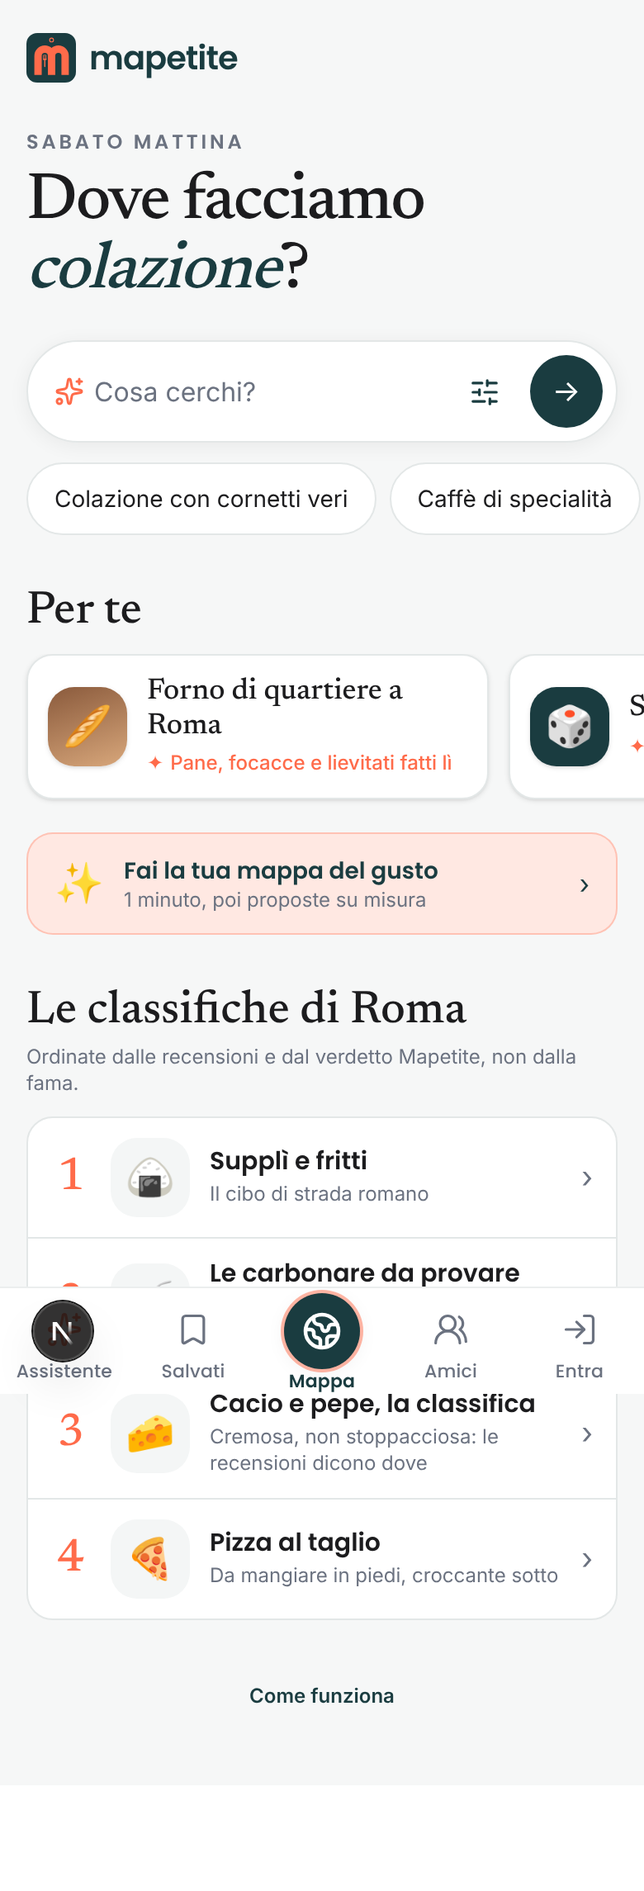
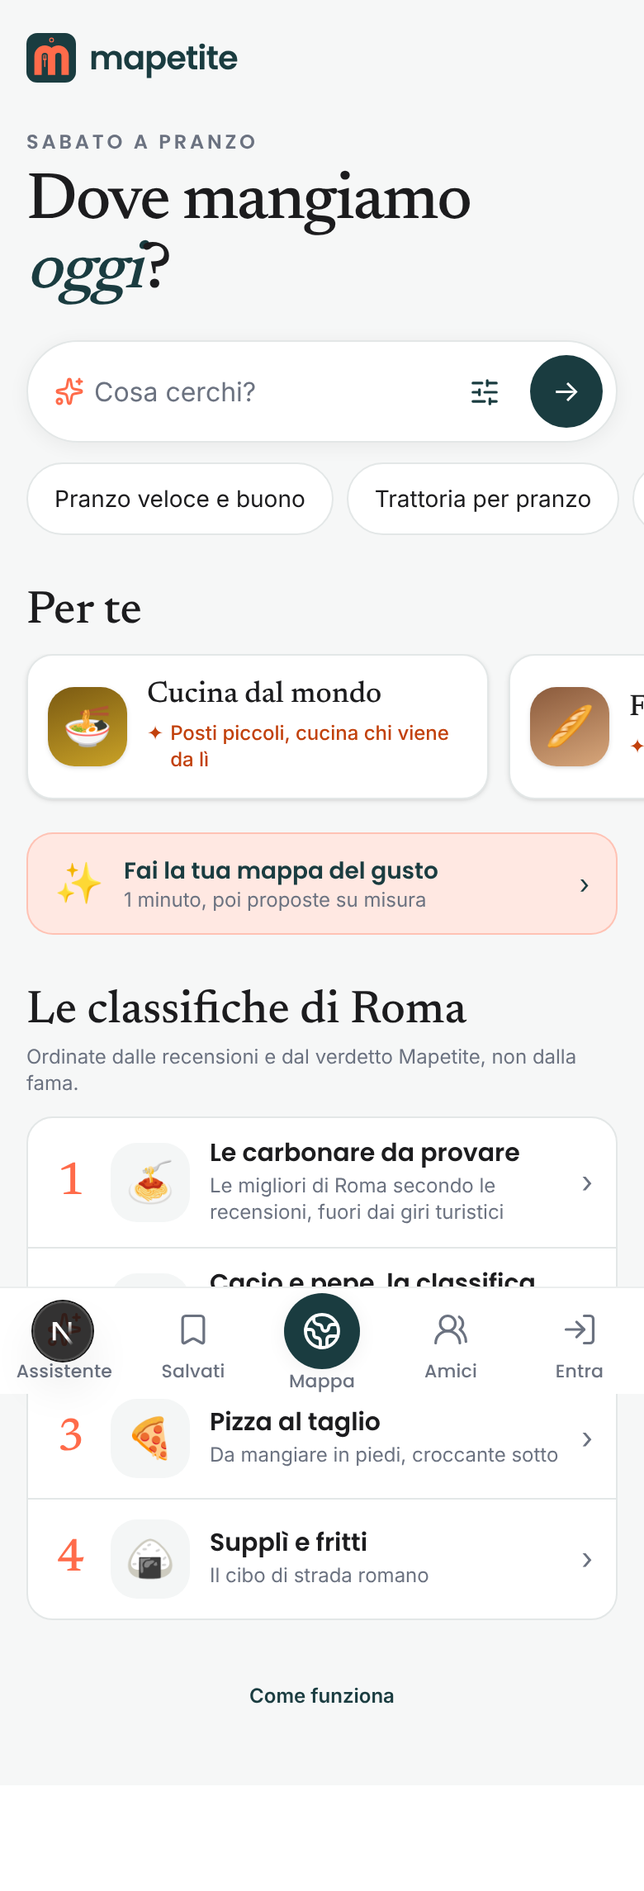
docs: BACKLOG della sessione del 7/11 alle 10:05 e screenshot dopo (home, primo accesso)
Claude-Session: https://claude.ai/code/session_01WaRiHrL3GZwTsBC8739bVF

diff --git a/docs/autonomia/BACKLOG.md b/docs/autonomia/BACKLOG.md
@@ -100,7 +100,8 @@ In pausa fino al 26/10: proposta 7 (ranking "Aperto da poco"), proposte 6, 9, 12
 - **Fatto venerdì 6/11 notte (sessione 03:05, branch `claude/busy-mendel-gf8o3h`, riparte da `claude/busy-mendel-fcysx4`, PR nuova che contiene la #129):** (1) **"Ti porterei qui"**: due revisori nuovi, 8,0 e 8,0 → per regola **spento per tutti** (`?beta=consiglio` lo accende su un telefono). Corretto: nome intero su una riga sua sotto "TI PORTEREI DA" (prima "Osteria dell'Acqu…"), stessa altezza (82 px) in attesa, dopo e anche quando il consiglio non arriva; ogni parola del perché deve stare nei dati del posto ("professionale" inventato per una cena di lavoro), refusi corretti dalla parola vera dei dati ("tramosto"), numeri della richiesta scartati ("70 anni"), perché che ripete il verdetto della card scartato; in questi casi una sola riscrittura (~0,45 centesimi in più), poi niente consiglio. (2) **Scheda del locale (area 6c)**: frasi delle recensioni in testo normale (il corsivo resta solo al verdetto), "Perché qui" senza il cerchio con la ✦, punti forti come pillole con bordo (come Places) senza l'etichetta, "Orari, contatti, recensioni ›" in fondo e ferma al tocco. Designer 7,2 → revisore 8,5. (3) **Salvati**: ordine "Da più tempo" (Da provare dal più vecchio, poi i visitati) al posto della riga "Aspettano da mesi": testata più leggera. (4) CEO: concorrenti (Beli, Corner, Mapstr), problema 21, proposte 48 e 49. **Ricerche Google vere oggi (dalle 9:00 del 5/11): 6** (3 della sera + casi 2, 11, 12 rifatti stanotte per il container nuovo).
 - **Fatto venerdì 6/11 sera (sessione 22:05, branch `claude/busy-mendel-wwtx30`, da `main` dopo la PR #130):** (1) **"Ti porterei qui"**: due revisori nuovi, 7,5 e 6,5 → resta **spento** (`?beta=consiglio`). Corretti tutti i loro difetti: il caso 2 non dava mai il consiglio (scartato perché il perché ripeteva il verdetto) → ora resta la scelta senza perché; "dicono le recensioni" tolto se le parole stanno solo nel verdetto AI (falso nel caso 2); doppione riquadro/card riconosciuto anche dalle prime 2 parole; forme diverse dello stesso verbo ("copre"/"coprire") non scartano più un perché vero; "nessuno" non resta in memoria; al primo arrivo sempre "Ti porterei da" + nome (prima con il consiglio sulla prima card il nome non si vedeva mai), "qui" solo dopo un tocco o uno scorrimento; perché più corto (90 caratteri). (2) **Scheda (6c)**: "‹ 1 di 12 ›" in alto al centro con la barra su una riga: due revisori 7,5 e 7 → **tolta dal merge**, scheda come in produzione. Il giusto, secondo il terzo revisore: scorrendo una testata bianca compatta fissa (X, nome piccolo, ‹ ›) come Google Maps/Places, foto all'apertura di almeno 160 px, emoji piccola a sinistra senza foto. (3) **Card dei risultati (6b)**: punti forti solo come pillole intere (prima "Pesce fres…"). (4) Giro: "Azzera" dei Salvati aspetta la lista (falliva col server lento). CEO: ricerca del giorno già fatta alle 03:05. **Ricerche Google vere oggi (dalle 9:00 del 6/11): 3** (casi 2, 11, 12 registrati in `scripts/fixtures` di questo container).
 - **Fatto sabato 7/11 notte (sessione 03:05, branch `claude/busy-mendel-7xugdb`, da `main` dopo la PR #131 con dentro la PR #132):** (1) **Scheda, testata compatta**: il controllo del giro che falliva era il test (a 480 px la scheda di prova non scorreva), non la scheda; revisore nuovo **8,5, APPROVATA**; corretti i suoi 3 punti: la testata compare appena i tasti sulla foto escono (prima a 375×667 c'era una zona senza X), puntini al posto di "1 / 2" sulla foto (sembrava un doppione di "‹ 1 di 12 ›"), frecce da 44 px. (2) **Primo accesso (6d)**: contatore sempre "N di 7" (prima da "2 di 8" a "3 di 7"), **unito**. Ritocchi dal designer (7,5) — chip che non si allargano, chip da 44 px, "Non lo conosco" come tasto, tolta la riga "trascina la card", nome del gusto in più nella frase — e (3) **Idee** (stesso giorno della home di notte, "Idee" a 44 px): **bocciati due volte (8,4 e 8,2) e tolti dal merge** (commit bb4a215); il lavoro resta nei commit 027e20d e dd8adef. (4) **Demo (7b)**: copione di 3 minuti riscritto al 7/11 in `DEMO.md`, da provare dal vivo. (5) CEO del sabato: concorrenti, problema 22 (trappole per turisti in centro), proposte 50–52 (dal 9/11), retro della settimana. **"Ti porterei qui"**: bocciata 4 volte; per la regola nuova della retro (alla terza bocciatura ci si ferma) resta spenta e la domanda va a Lorenzo. Ricerche Google vere: 0.
-- **Prossima sessione (dopo la notte del 7/11), in ordine:** (0) **riapplicare i ritocchi del primo accesso** (`git cherry-pick 027e20d dd8adef`) con le correzioni del secondo revisore (8,2): a 360 px "Non lo conosco" tocca 👎 e 👍 (1 px: tasti tondi più piccoli sotto 380 px o "Non so"); Idee e home con le stesse fasce ("mattina" fino alle 11, "a pranzo") e `percheMomento` con l'ora di Roma; frase "Ti piacciono trattoria, ristorante e pizza al taglio" sgrammaticata (meglio "Ti piacciono le trattorie…" o "Ti piace: …"); chip "Prova a chiedere" a 40 px; poi un revisore nuovo, merge se ≥ 8,5. (a) dall'audit del designer (home 6,5, mappa 6): sulla home il cocktail compare tre volte (chip, "Per te", classifica): togliere i doppioni; card "Per te" della home solo emoji (sembrano segnaposti): foto del primo locale o card più bassa; "Azzera" nei Filtri quasi invisibile; testo del campo di ricerca diverso tra home ("Cosa cerchi?") e mappa ("Chiedi all'AI…" tagliato); nessuna linguetta attiva nella barra in basso sulla home. (b) Primo accesso: "Cosa ti piace?" con 54 chip in una pagina lunga (aprire solo 2 gruppi, il resto dietro "Altro"; nascondere "Cucina milanese" a chi ha scelto Roma); ogni passo scorre di 64 px a vuoto. (c) Domenica 8/11: copione demo provato dal vivo in produzione (7b) e pagina prima/dopo (7c). (d) Scheda, minori del revisore: chip dei punti forti con il bordo tagliato in seconda riga; senza foto l'emoji è vicina alla X.
+- **Prossima sessione (dopo la sessione delle 10:05 del 7/11), in ordine:** riparti dal branch `claude/busy-mendel-e78fe2`. (0) **Revisore nuovo sul primo accesso** (correzioni fatte: diete solo in "Come mangi?", un gruppo aperto in "Cosa ti piace?", niente scorrimento a vuoto, fasce orarie e ora di Roma uguali tra home e Idee); minori aperti: vuoto di ~300 px in "Ecco cosa ho capito", "Non lo conosco" → "Mai provato", Thai e Coreano con la stessa emoji, chip "Prova a chiedere" che ripetono l'idea del momento o sono fuori fascia ("Colazione buona" a pranzo). (1) **Revisore nuovo sulla home** (correzioni fatte: classifiche solo dell'ora giusta e nascoste se meno di 2, "Per te" solo con tipi adatti all'ora, perché su due righe in corallo scuro 5,2:1, "Azzera" leggibile, campo "Cosa cerchi?" uguale alla mappa); minori aperti: "Pizzeria napoletana con la fila" come titolo in "Per te" (suona mainstream), ricerca recente ripetuta come pillola ↻ e come card, "Azzera" spento senza bordo. Se entrambi ≥ 8,5: build con il server fermo, merge, controllo del deploy. (2) Poi le voci (b)–(d) qui sotto ancora aperte e domenica 8/11 il copione demo dal vivo (7b) e la pagina prima/dopo (7c).
+- **Prossima sessione (dopo la notte del 7/11, in parte fatta il 7/11 alle 10:05):** (0) **riapplicare i ritocchi del primo accesso** (`git cherry-pick 027e20d dd8adef`) con le correzioni del secondo revisore (8,2): a 360 px "Non lo conosco" tocca 👎 e 👍 (1 px: tasti tondi più piccoli sotto 380 px o "Non so"); Idee e home con le stesse fasce ("mattina" fino alle 11, "a pranzo") e `percheMomento` con l'ora di Roma; frase "Ti piacciono trattoria, ristorante e pizza al taglio" sgrammaticata (meglio "Ti piacciono le trattorie…" o "Ti piace: …"); chip "Prova a chiedere" a 40 px; poi un revisore nuovo, merge se ≥ 8,5. (a) dall'audit del designer (home 6,5, mappa 6): sulla home il cocktail compare tre volte (chip, "Per te", classifica): togliere i doppioni; card "Per te" della home solo emoji (sembrano segnaposti): foto del primo locale o card più bassa; "Azzera" nei Filtri quasi invisibile; testo del campo di ricerca diverso tra home ("Cosa cerchi?") e mappa ("Chiedi all'AI…" tagliato); nessuna linguetta attiva nella barra in basso sulla home. (b) Primo accesso: "Cosa ti piace?" con 54 chip in una pagina lunga (aprire solo 2 gruppi, il resto dietro "Altro"; nascondere "Cucina milanese" a chi ha scelto Roma); ogni passo scorre di 64 px a vuoto. (c) Domenica 8/11: copione demo provato dal vivo in produzione (7b) e pagina prima/dopo (7c). (d) Scheda, minori del revisore: chip dei punti forti con il bordo tagliato in seconda riga; senza foto l'emoji è vicina alla X.
 - Sessione prima: **Prossima sessione (dopo la sera del 6/11), in ordine:** (a) **Scheda, testata compatta: GIÀ FATTA sul branch `claude/busy-mendel-wwtx30`** (commit dopo la PR #131, non unita): scorrendo compare in alto una barra bianca fissa con X, nome e "‹ 1 di 12 ›"; "‹ ›" in alto al centro sulla foto; barra azioni su una riga; foto mai sotto 160 px; senza foto emoji a sinistra sotto i tasti. Serve **un revisore nuovo** (dati salvati dei casi 2, 11, 12; con foto finte e senza foto; 390×844, 360×740, 375×667): se ≥ 8,5 e giro TUTTO OK, merge. Da guardare: nome lungo tagliato nella testata compatta a 360. **Giro: 2.213 controlli OK e 1 fallito**, il controllo nuovo "scorrendo compare la testata compatta" (opacità resta 0 nel caso q3 del giro con dati finti, mentre dal vivo con i dati salvati compare: `screenshots/2026-11-06-sera/scheda-testata-compatta.png`): capire perché nel caso q3 (forse la scheda non scorre abbastanza o la foto non c'è) prima del merge. Anche "Chiuso ora" come testo con pallino (revisore card) è su questo branch. (b) **"Ti porterei qui"**: revisore nuovo (fixture dei casi 2, 11, 12 da rifare se il container è nuovo: 3 ricerche vere); da guardare il tempo (consiglio 6–7 s dopo la lista). (c) Area 6a home e 6d primo accesso; (d) area 7 Demo: copione di 3 minuti aggiornato con le funzioni nuove e provato dal vivo (domenica 8/11).
 - Sessione prima: **Prossima sessione (dopo la notte del 6/11), in ordine:** (a) **un revisore nuovo su "Ti porterei qui"** con `?beta=consiglio` (risposte dei casi 2, 11, 12 in `scripts/fixtures` di questo container; se è nuovo, 3 ricerche vere). Se ≥ 8,5, accenderlo in `DEFAULT_ON` di `src/lib/beta.ts`. Da guardare: con i controlli stretti il consiglio arriva meno spesso (stanotte 1–2 frasi su 3); "Festeggia compleanni…" suona come un ordine (prompt). (b) Area 6 Grafica: barra azioni della scheda su una riga sola ("‹ 1 di 12 ›" nell'intestazione, quinto punto del designer, non fatto), emoji più grande senza foto; poi 6b risultati e 6a home. (c) Area 7 Demo: copione di 3 minuti provato dal vivo.
 - Sessione prima: **Prossima sessione (dopo la sera del 5/11), in ordine:** (a) **un revisore nuovo su "Ti porterei qui"** (branch `claude/busy-mendel-fcysx4`, PR #129 in bozza; bocciata 7,5 e 8,0, tutto corretto: nome doppio, riquadro che cresceva, perché tagliato, frase presa dalla richiesta, nota del budget, consiglio instabile). Server con `GOOGLE_FIXTURES_ONLY=1`: le risposte dei casi 2, 11 e 12 sono in `scripts/fixtures` di QUESTO container (se il container è nuovo vanno rifatte: 3 ricerche vere). Se ≥ 8,5 e giro TUTTO OK, merge. Difetti noti lasciati: con il consiglio sulla prima card il tocco non fa niente (dice già "1 di N"); la ✦ è anche il simbolo del verdetto. (b) Area 6 Grafica (calendario: venerdì 6/11): risultati, scheda, home, come scritto sotto. (c) Testata dei Salvati più leggera: provata il 5/11 sera ("Aspettano da mesi" come pillola nella fila), **bocciata due volte (8,0 e 7,5) e tolta dal branch**. Motivi: testo tagliato a 390 px, sembra un doppione di "Da provare", la fila dei tipi scivola sotto il dito quando la pillola sparisce, il conteggio conta anche i posti senza stato. Idea del secondo revisore da provare: "Da più tempo" come ordinamento (accanto a Vicino / Recenti / Preferiti), come fanno Places, Mapstr e Google Maps, e togliere la riga.
@@ -124,7 +125,7 @@ In pausa fino al 26/10: proposta 7 (ranking "Aperto da poco"), proposte 6, 9, 12
 - Sessione prima: **Prossima sessione (dal 30/10 sera), in ordine:** (a) se Lorenzo ha detto "aggiungi tu le chiavi degli avvisi": generarle e metterle su Vercel, poi un avviso vero; (b) "Chiedi ai tuoi posti" anche dalla home/assistente quando la domanda somiglia ai salvati (oggi solo nella pagina dei salvati) e prova dal vivo in produzione con un account con salvati veri; (c) proposta 3, passo 2: prenotazioni sul server con consenso e informativa; (d) proposta 30 (serve un file vero di esportazione Instagram); (e) "Altri come questo" (27); (f) "Prenota su TheFork" spento: prova dal vivo sull'anteprima Vercel con 3–4 siti veri.
 - Sessione prima: **Prossima sessione (dal 30/10), in ordine:** (a) se Lorenzo ha detto "aggiungi tu le chiavi degli avvisi": generarle e metterle su Vercel (Production e Preview), poi provare un avviso vero; (b) minori del collaudo del 30/10: al primo "Ci sono stato" la prova si salva al tocco anche se poi si sceglie "Ieri" (aspettare il foglio, come per "tornato"); la scheda chiama `/api/ristoratore/serate` due volte (posto-locale e omaggio: unire); (c) proposta 3, passo 2: prenotazioni sul server con consenso e informativa; (d) proposta 30, salvati di Instagram dal file di Meta (serve un file vero); (e) proposta 33 "Chiedi ai tuoi salvati"; (f) "Altri come questo" (27) e "Verdetto in arrivo" (26). Per accendere l'omaggio serve un locale verificato che lo voglia (Lorenzo/Roberto).
 - Sessione prima: **Prossima sessione (dalla notte del 29/10), superata:** (a) se Lorenzo ha detto "aggiungi tu le chiavi degli avvisi": generarle e metterle su Vercel (Production e Preview), poi provare un avviso vero; (a2) **proposta 28 "📍 sul posto": BOCCIATA 2 volte il 30/10 notte (7,5 e 8,2), non unita.** Codice nei commit 56bf00c e successivo, tolti con un revert (riprenderli con `git revert` del revert). Da correggere: la riga "Ci sei stato oggi · 2 volte · 📍 sul posto · Cambia" a 390 px lascia "Cambia" da solo (tenerli insieme o "📍 sul posto" su una riga sotto); la spiegazione deve vedersi al tocco (una riga nel foglio "Modifica"), non solo in `title`; test con telefono a più di 150 m e "tornato" con data passata. La colonna `saved_places.visita_vista_al` è già nel database (vuota). Poi revisore nuovo. (b) proposta 12, omaggio a chi torna (progetto in `PROPOSTE.md`, usa la prova di "📍 sul posto"); (c) proposta 3, passo 2: prenotazioni sul server con consenso e informativa; (d) proposta 30, salvati di Instagram dal file di Meta (serve un file vero di esportazione per verificare il formato); (e) "Altri come questo" (27) e "Verdetto in arrivo" (26), ora che il credito AI è tornato. **Fatto nella notte del 29→30/10:** Instagram dal link provato (non si può) + "Guarda il reel", avvisi push, cliente di parola, bozza per Roberto (25); "📍 sul posto" (28) costruita ma bocciata, progetti di 9 e 12.
-**In corso adesso:** sabato 7/11, sessione delle 10:05, iniziata alle 10:07, branch `claude/busy-mendel-e78fe2` (da `main` dopo la PR #133). Prima: sabato 7/11, sessione delle 03:05, iniziata alle 03:06, finita alle 05:20, branch `claude/busy-mendel-7xugdb` (da `main` dopo la PR #131, con dentro la PR #132): scheda con testata compatta approvata (8,5) e unita; ritocchi del primo accesso bocciati due volte e tolti. Giro TUTTO OK (2.215 controlli), build OK. Ricerche Google vere oggi (dalle 9:00 del 6/11): 3. Prima: venerdì 6/11, sessione delle 22:05, iniziata alle 22:07, PR #131 unita alle 23:15 (deploy READY, pagine senza errori); poi testata compatta della scheda sul branch `claude/busy-mendel-wwtx30` (da `main` dopo la PR #131), non unita; finita alle 00:50 (card dei risultati approvata 8,5; "Ti porterei qui" corretto ma spento; scheda nuova tolta dal merge e pronta in un commit a parte, vedi "Prossima sessione"). Giro TUTTO OK (2.210 controlli), build OK. Prima: venerdì 6/11, sessione delle 03:05, iniziata alle 03:06, finita alle 04:40, branch `claude/busy-mendel-gf8o3h` (riparte da `claude/busy-mendel-fcysx4`, contiene la PR #129, chiusa), unita in produzione con "Ti porterei qui" spento (`?beta=consiglio`). Giro TUTTO OK (2.209 controlli), build OK. Prima: giovedì 5/11, sessione delle 22:05, iniziata alle 22:07, finita alle 23:55, branch `claude/busy-mendel-fcysx4`, PR #129 in bozza, non unita ("Ti porterei qui" bocciata due volte, 7,5 e 8,0, tutto corretto; serve un revisore nuovo). Giro TUTTO OK (2.205 controlli), build OK. Ricerche Google vere oggi (dalle 9:00 del 5/11): 3. Prima: giovedì 5/11, sessione delle 03:05, iniziata alle 03:06, finita alle 04:55, branch `claude/busy-mendel-x00o4y` (riparte da `claude/busy-mendel-wnyqkh`), PR #128 in bozza che contiene la #127 (chiusa), non unita: mappa bocciata due volte (7,5 e 7,3), corretta dopo ogni giro. Giro TUTTO OK (2.157 controlli), build OK. Domanda per Lorenzo in PR: due idee fisse sotto la barra sulla mappa all'apertura al posto del tasto "Idee" (sua scelta del 16/10)? Prima: mercoledì 4/11, sessione delle 22:05, iniziata alle 22:06, finita alle 23:58, branch `claude/busy-mendel-wnyqkh` (riparte da `claude/busy-mendel-oybdnw`), PR nuova che contiene la #126, non unita (mappa bocciata tre volte: 7,5 / 8,0 / 8,2, corretta dopo ogni giro). Prima: mercoledì 4/11, sessione delle 03:05, iniziata alle 03:06, finita alle 06:00, branch `claude/busy-mendel-oybdnw`, PR #126 in bozza (non unita: mappa bocciata dai revisori, corretta dopo ogni giro; serve un revisore nuovo). Giro TUTTO OK (2.147 controlli, lanciato con E2E_FAKE_USER anche nel comando del giro), build OK. Ricerche Google vere oggi (dalle 9:00 del 3/11): 5 (sessione 03:05, casi 2, 3, 5, 6, 9 di TEST-RICERCHE). Prima: martedì 3/11, sessione delle 22:05, iniziata alle 22:07, finita entro le 23:20, branch `claude/busy-mendel-rjc6nu`, PR #125 unita. Prima: martedì 3/11, sessione delle 03:05, finita alle 05:25, branch `claude/busy-mendel-7jz1xf`, **PR #123 unita e in produzione** (deploy READY, giro in produzione senza errori): Importa da Google approvata dal quarto revisore (8,6), PR #122 chiusa perché inclusa. Salvati bocciata due volte (8,2 e 7,5) e tolta dal merge; versione corretta sul branch `claude/busy-mendel-7jz1xf` dopo questo commit (vedi "Prossima sessione"). Giro TUTTO OK (2.124 controlli). Ricerche Google vere oggi (dalle 9:00 del 2/11): 0. Prima: lunedì 2/11, sessione delle 22:06, finita alle 23:40, branch `claude/busy-mendel-ho6rqf`, PR #122 (Importa da Google e 5 minori; giro TUTTO OK, 2.117 controlli; bocciata 2 volte sul design, 8,0 e 7,5, quindi non unita: correzioni nel branch, serve un revisore nuovo). Chiusa prima delle 03:05 apposta, così la sessione delle 03:05 parte e può unire dopo il revisore nuovo. Ricerche Google vere oggi (dalle 9:00 del 2/11): 0. Prima: domenica 1/11 (festivo), sessione ripresa alle 19:20 su richiesta di Lorenzo in chat e continua per tutta la notte, finita alle ~05:20 del 2/11 con PR #121 unita, branch `claude/busy-mendel-ipg07j` (giro completo, Idee, Salvati, profilo, titoli, mappa, risultati, Importa; più sviluppatori in parallelo). Le sessioni programmate della notte riprendono da questo branch. Prima: domenica 1/11, sessione delle 18:06, finita alle 18:57: prova dal vivo in produzione di "Chiedi ai tuoi posti", "Altri come questo" e "Dai tuoi salvati", corretto "Dai tuoi salvati" che riproponeva il posto di partenza, PR #119 unita e in produzione, verificata dopo il merge; branch `claude/busy-mendel-ipg07j`). Prima: domenica 1/11, sessione delle 14:06, finita alle 14:39: riga "Legate a un altro account", prova dal vivo in produzione tutto OK, PR #118 unita e in produzione; branch `claude/busy-mendel-9oj0iy`). Prima: domenica 1/11, sessione delle 10:06, finita alle 11:13: "Ci vai domani?" in produzione, PR #117; branch `claude/busy-mendel-7xg7eg`). Prima: domenica 1/11, sessione delle 03:06, finita alle 03:52: pannello del locale asciutto e "Tavoli da Mapetite" accesa per tutti; branch `claude/busy-mendel-herq4b`). Prima: sabato 31/10, sessione delle 22:07, finita alle 23:11: prenotazioni "vince la modifica più recente" in produzione, "Tavoli da Mapetite" nel pannello spenta dopo due collaudi bocciati; branch `claude/busy-mendel-kll2s9`). Prima: sessione delle 18:06, finita alle 18:56: "Tienile sul tuo account" accesa per tutti, font dentro il progetto; branch `claude/busy-mendel-k2oof9`). Prima: sessione delle 14:07, finita alle 15:20: "Tienile sul tuo account", spenta per tutti dopo due collaudi bocciati; branch `claude/busy-mendel-cjw7uc`). Prima: continuazione 11:15–12:13 (PR #112), mattina 10:06–11:12 (PR #111). Ricerche Google vere oggi (dalle 9:00 del 1/11): 2 (sessione 18:06: "Altri come L'Elementare" prima e dopo il merge).
+**In corso adesso:** nessuna. Ultima: sabato 7/11, sessione delle 10:05, iniziata alle 10:07, finita alle 13:30, branch `claude/busy-mendel-e78fe2` (da `main` dopo la PR #133), PR in bozza, **non unita**: primo accesso bocciato due volte (8,4 e 8,4) e home bocciata due volte (7,5 e 8,0), tutto corretto dopo ogni giro; servono revisori nuovi. Giro TUTTO OK sulla versione finale (vedi PR), build non provata (si prova con il server fermo prima del merge). Ricerche Google vere oggi (dalle 9:00 del 7/11): 0. Prima: sabato 7/11, sessione delle 03:05, iniziata alle 03:06, finita alle 05:20, branch `claude/busy-mendel-7xugdb` (da `main` dopo la PR #131, con dentro la PR #132): scheda con testata compatta approvata (8,5) e unita; ritocchi del primo accesso bocciati due volte e tolti. Giro TUTTO OK (2.215 controlli), build OK. Ricerche Google vere oggi (dalle 9:00 del 6/11): 3. Prima: venerdì 6/11, sessione delle 22:05, iniziata alle 22:07, PR #131 unita alle 23:15 (deploy READY, pagine senza errori); poi testata compatta della scheda sul branch `claude/busy-mendel-wwtx30` (da `main` dopo la PR #131), non unita; finita alle 00:50 (card dei risultati approvata 8,5; "Ti porterei qui" corretto ma spento; scheda nuova tolta dal merge e pronta in un commit a parte, vedi "Prossima sessione"). Giro TUTTO OK (2.210 controlli), build OK. Prima: venerdì 6/11, sessione delle 03:05, iniziata alle 03:06, finita alle 04:40, branch `claude/busy-mendel-gf8o3h` (riparte da `claude/busy-mendel-fcysx4`, contiene la PR #129, chiusa), unita in produzione con "Ti porterei qui" spento (`?beta=consiglio`). Giro TUTTO OK (2.209 controlli), build OK. Prima: giovedì 5/11, sessione delle 22:05, iniziata alle 22:07, finita alle 23:55, branch `claude/busy-mendel-fcysx4`, PR #129 in bozza, non unita ("Ti porterei qui" bocciata due volte, 7,5 e 8,0, tutto corretto; serve un revisore nuovo). Giro TUTTO OK (2.205 controlli), build OK. Ricerche Google vere oggi (dalle 9:00 del 5/11): 3. Prima: giovedì 5/11, sessione delle 03:05, iniziata alle 03:06, finita alle 04:55, branch `claude/busy-mendel-x00o4y` (riparte da `claude/busy-mendel-wnyqkh`), PR #128 in bozza che contiene la #127 (chiusa), non unita: mappa bocciata due volte (7,5 e 7,3), corretta dopo ogni giro. Giro TUTTO OK (2.157 controlli), build OK. Domanda per Lorenzo in PR: due idee fisse sotto la barra sulla mappa all'apertura al posto del tasto "Idee" (sua scelta del 16/10)? Prima: mercoledì 4/11, sessione delle 22:05, iniziata alle 22:06, finita alle 23:58, branch `claude/busy-mendel-wnyqkh` (riparte da `claude/busy-mendel-oybdnw`), PR nuova che contiene la #126, non unita (mappa bocciata tre volte: 7,5 / 8,0 / 8,2, corretta dopo ogni giro). Prima: mercoledì 4/11, sessione delle 03:05, iniziata alle 03:06, finita alle 06:00, branch `claude/busy-mendel-oybdnw`, PR #126 in bozza (non unita: mappa bocciata dai revisori, corretta dopo ogni giro; serve un revisore nuovo). Giro TUTTO OK (2.147 controlli, lanciato con E2E_FAKE_USER anche nel comando del giro), build OK. Ricerche Google vere oggi (dalle 9:00 del 3/11): 5 (sessione 03:05, casi 2, 3, 5, 6, 9 di TEST-RICERCHE). Prima: martedì 3/11, sessione delle 22:05, iniziata alle 22:07, finita entro le 23:20, branch `claude/busy-mendel-rjc6nu`, PR #125 unita. Prima: martedì 3/11, sessione delle 03:05, finita alle 05:25, branch `claude/busy-mendel-7jz1xf`, **PR #123 unita e in produzione** (deploy READY, giro in produzione senza errori): Importa da Google approvata dal quarto revisore (8,6), PR #122 chiusa perché inclusa. Salvati bocciata due volte (8,2 e 7,5) e tolta dal merge; versione corretta sul branch `claude/busy-mendel-7jz1xf` dopo questo commit (vedi "Prossima sessione"). Giro TUTTO OK (2.124 controlli). Ricerche Google vere oggi (dalle 9:00 del 2/11): 0. Prima: lunedì 2/11, sessione delle 22:06, finita alle 23:40, branch `claude/busy-mendel-ho6rqf`, PR #122 (Importa da Google e 5 minori; giro TUTTO OK, 2.117 controlli; bocciata 2 volte sul design, 8,0 e 7,5, quindi non unita: correzioni nel branch, serve un revisore nuovo). Chiusa prima delle 03:05 apposta, così la sessione delle 03:05 parte e può unire dopo il revisore nuovo. Ricerche Google vere oggi (dalle 9:00 del 2/11): 0. Prima: domenica 1/11 (festivo), sessione ripresa alle 19:20 su richiesta di Lorenzo in chat e continua per tutta la notte, finita alle ~05:20 del 2/11 con PR #121 unita, branch `claude/busy-mendel-ipg07j` (giro completo, Idee, Salvati, profilo, titoli, mappa, risultati, Importa; più sviluppatori in parallelo). Le sessioni programmate della notte riprendono da questo branch. Prima: domenica 1/11, sessione delle 18:06, finita alle 18:57: prova dal vivo in produzione di "Chiedi ai tuoi posti", "Altri come questo" e "Dai tuoi salvati", corretto "Dai tuoi salvati" che riproponeva il posto di partenza, PR #119 unita e in produzione, verificata dopo il merge; branch `claude/busy-mendel-ipg07j`). Prima: domenica 1/11, sessione delle 14:06, finita alle 14:39: riga "Legate a un altro account", prova dal vivo in produzione tutto OK, PR #118 unita e in produzione; branch `claude/busy-mendel-9oj0iy`). Prima: domenica 1/11, sessione delle 10:06, finita alle 11:13: "Ci vai domani?" in produzione, PR #117; branch `claude/busy-mendel-7xg7eg`). Prima: domenica 1/11, sessione delle 03:06, finita alle 03:52: pannello del locale asciutto e "Tavoli da Mapetite" accesa per tutti; branch `claude/busy-mendel-herq4b`). Prima: sabato 31/10, sessione delle 22:07, finita alle 23:11: prenotazioni "vince la modifica più recente" in produzione, "Tavoli da Mapetite" nel pannello spenta dopo due collaudi bocciati; branch `claude/busy-mendel-kll2s9`). Prima: sessione delle 18:06, finita alle 18:56: "Tienile sul tuo account" accesa per tutti, font dentro il progetto; branch `claude/busy-mendel-k2oof9`). Prima: sessione delle 14:07, finita alle 15:20: "Tienile sul tuo account", spenta per tutti dopo due collaudi bocciati; branch `claude/busy-mendel-cjw7uc`). Prima: continuazione 11:15–12:13 (PR #112), mattina 10:06–11:12 (PR #111). Ricerche Google vere oggi (dalle 9:00 del 1/11): 2 (sessione 18:06: "Altri come L'Elementare" prima e dopo il merge).
 **Dopo il merge (03:40), giro in produzione:** "trattoria a Trastevere" → scheda nuova con foto vera, verdetto in alto, barra dell'app nascosta, "Orari, contatti, recensioni" sopra i tasti, nessun errore (`screenshots/2026-10-24/produzione-scheda-390.png`). **Da guardare:** senza AI (credito a zero) primo in lista è Trattoria Da Enzo, il più famoso: il caso 20 di TEST-RICERCHE regge solo con l'AI accesa. Se il credito non torna entro la demo, spostare i posti di massa in fondo anche senza AI (`mainstream.ts`).
 **Fatto lunedì 26/10 notte (04:06–, branch `claude/great-cannon-hmntgq`). Nessuna sessione nel weekend del 24–25/10 dopo quella delle 00:06.**
 - **Credito Anthropic ancora a zero alle 04:08** (stesso errore). Notifica mandata a Lorenzo. Senza AI la ricerca regge: provata dal vivo "trattoria a Trastevere" (1 ricerca Google vera), Da Enzo è decimo, non primo; i posti già visti hanno il verdetto, i nuovi una frase di recensione.
